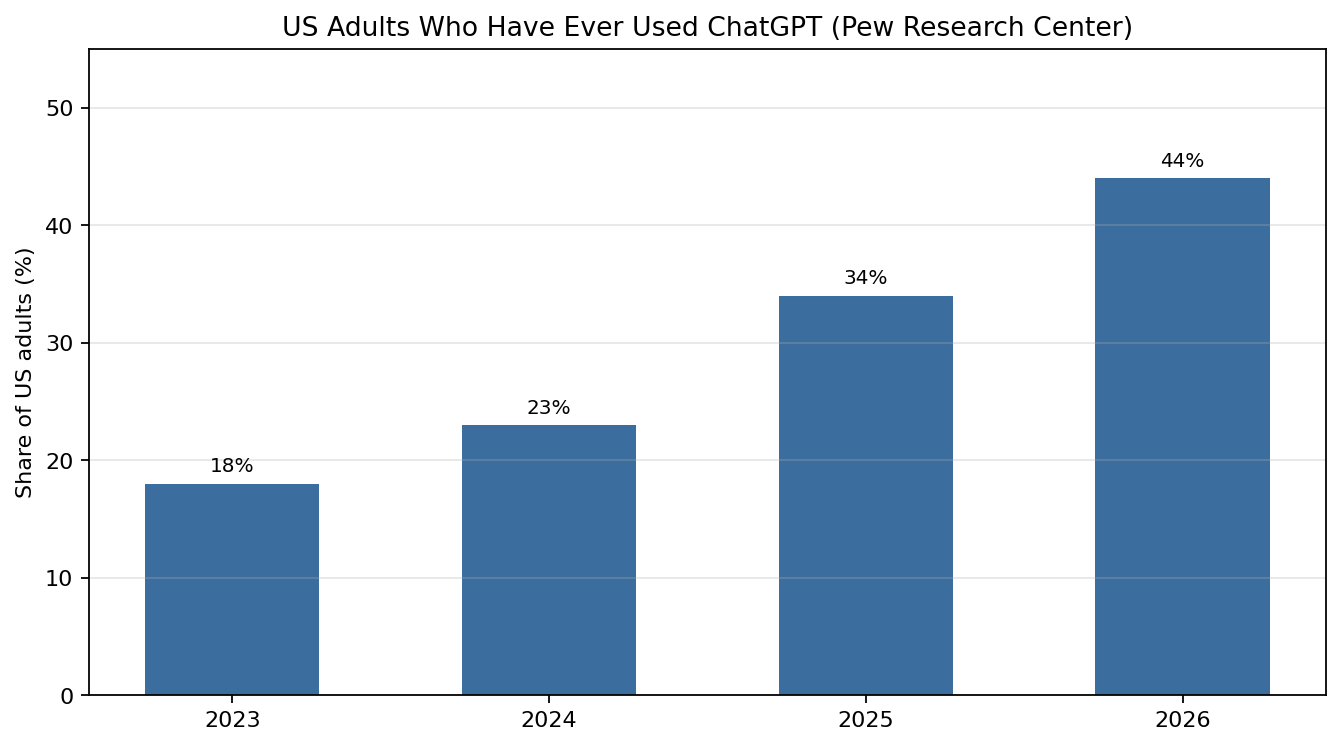
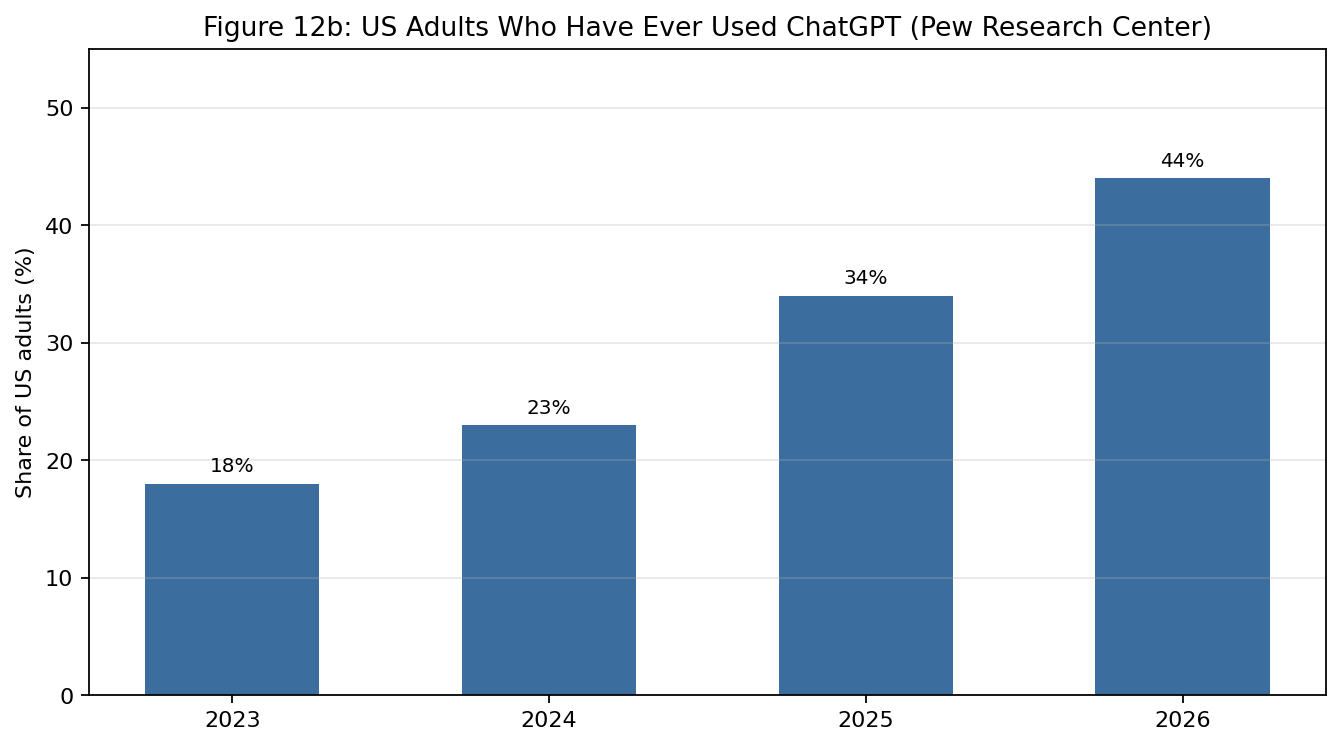
Fix AI era report: sequential figure numbering and widen narrow charts (Figures 6a, 9b, 14)

Changed region(s): [[0.1529, 0.0, 0.9172, 0.0616]]

diff --git a/public/reports/ai-era-daily-life/index.html b/public/reports/ai-era-daily-life/index.html
@@ -409,33 +409,33 @@
 <section id="jobs">
   <h2>7. Job Security</h2>
 
-  <p>Job security is the dimension where the economics literature is deepest, and where perceived and measured risk diverge most sharply. The perceived risk is real and rising. In September 2023, 22 percent of US workers told Gallup they worried technology would make their job obsolete, up from 15 percent in 2021. Microsoft's 2023 Work Trend Index found 49 percent of global knowledge workers worried AI would replace their job, and 70 percent said they would delegate as much work as possible to AI. By February 2025, Pew found 52 percent of US workers worried about AI use in the workplace, with 32 percent saying AI would lead to fewer job opportunities in their field (Figure 9). These are substantial numbers, and they moved up almost exactly with the ChatGPT timeline.</p>
+  <p>Job security is the dimension where the economics literature is deepest, and where perceived and measured risk diverge most sharply. The perceived risk is real and rising. In September 2023, 22 percent of US workers told Gallup they worried technology would make their job obsolete, up from 15 percent in 2021. Microsoft's 2023 Work Trend Index found 49 percent of global knowledge workers worried AI would replace their job, and 70 percent said they would delegate as much work as possible to AI. By February 2025, Pew found 52 percent of US workers worried about AI use in the workplace, with 32 percent saying AI would lead to fewer job opportunities in their field (Figure 6). These are substantial numbers, and they moved up almost exactly with the ChatGPT timeline.</p>
 
   <div class="two-col">
     <div class="chart-container">
-      <h4>Figure 9a: Workers Who Worry About AI and Their Jobs</h4>
+      <h4>Figure 6a: Workers Who Worry About AI and Their Jobs</h4>
       <p class="chart-note">Shares of workers reporting job-related worry about technology or AI, by survey. Questions differ across surveys; each bar states its source and wording. Sources: Gallup Work and Education poll (2021, 2023); Microsoft Work Trend Index (2023); Pew Research Center (February 2025).</p>
       <div class="chart-box short" id="chart-job-worries"></div>
     </div>
     <div class="chart-container">
-      <h4>Figure 9b: How US Workers Feel About AI in the Workplace</h4>
+      <h4>Figure 6b: How US Workers Feel About AI in the Workplace</h4>
       <p class="chart-note">US workers reporting each feeling about AI use in the workplace, February 2025. Source: Pew Research Center. Multiple feelings could be selected.</p>
       <div class="chart-box short" id="chart-pew-sentiment"></div>
     </div>
   </div>
 
-  <p>The measured risk is far smaller, at least so far. The ILO's 2023 analysis of generative AI and jobs found that only 5.5 percent of total employment in high-income countries sits in occupations potentially exposed to the automating effects of the technology, and 0.4 percent in low-income countries. The larger effect is augmentation: 13.4 percent of employment in high-income countries and 10.4 percent in low-income countries could be enhanced rather than replaced, which is why the ILO concluded that the technology is more likely to change the quality of jobs than to destroy them. The IMF's 2024 analysis uses a wider definition of exposure and finds that almost 40 percent of global employment is exposed to AI, about 60 percent in advanced economies, 40 percent in emerging markets, and 26 percent in low-income countries. The OECD's 2024 regional analysis estimates that about 26 percent of OECD workers are currently exposed to generative AI, with a potential for up to 70 percent as the technology spreads, and 39 percent of the potentially exposed workers considered highly exposed (Figure 8).</p>
+  <p>The measured risk is far smaller, at least so far. The ILO's 2023 analysis of generative AI and jobs found that only 5.5 percent of total employment in high-income countries sits in occupations potentially exposed to the automating effects of the technology, and 0.4 percent in low-income countries. The larger effect is augmentation: 13.4 percent of employment in high-income countries and 10.4 percent in low-income countries could be enhanced rather than replaced, which is why the ILO concluded that the technology is more likely to change the quality of jobs than to destroy them. The IMF's 2024 analysis uses a wider definition of exposure and finds that almost 40 percent of global employment is exposed to AI, about 60 percent in advanced economies, 40 percent in emerging markets, and 26 percent in low-income countries. The OECD's 2024 regional analysis estimates that about 26 percent of OECD workers are currently exposed to generative AI, with a potential for up to 70 percent as the technology spreads, and 39 percent of the potentially exposed workers considered highly exposed (Figure 7).</p>
 
   <div class="chart-container">
-    <h4>Figure 8: Estimates of AI Exposure Across Studies and Definitions</h4>
+    <h4>Figure 7: Estimates of AI Exposure Across Studies and Definitions</h4>
     <p class="chart-note">Shares of employment or tasks potentially exposed to AI, by study, scope, and definition. The measures are not directly comparable; exposure means task overlap, not job loss. Sources: ILO (2023); IMF (2024); OECD (2024); Frey and Osborne (2017) shown for historical context.</p>
     <div class="chart-box tall" id="chart-exposure"></div>
   </div>
 
-  <p>Projections of future churn are larger but still net positive in the latest round. The World Economic Forum's 2023 Future of Jobs Report expected 23 percent of jobs to change between 2023 and 2027, with 69 million jobs created and 83 million eliminated, a net reduction of 14 million. Its 2025 report, covering 2025 to 2030, projects 170 million jobs created and 92 million displaced, a net gain of 78 million, with 39 percent of workers' core skills expected to change (Figure 13). The swing from net negative to net positive between the two reports is itself a reminder that these are employer expectations, not outcomes, and that they respond to the economic cycle as much as to technology.</p>
+  <p>Projections of future churn are larger but still net positive in the latest round. The World Economic Forum's 2023 Future of Jobs Report expected 23 percent of jobs to change between 2023 and 2027, with 69 million jobs created and 83 million eliminated, a net reduction of 14 million. Its 2025 report, covering 2025 to 2030, projects 170 million jobs created and 92 million displaced, a net gain of 78 million, with 39 percent of workers' core skills expected to change (Figure 8). The swing from net negative to net positive between the two reports is itself a reminder that these are employer expectations, not outcomes, and that they respond to the economic cycle as much as to technology.</p>
 
   <div class="chart-container">
-    <h4>Figure 13: Projected Job Creation and Displacement (WEF Future of Jobs)</h4>
+    <h4>Figure 8: Projected Job Creation and Displacement (WEF Future of Jobs)</h4>
     <p class="chart-note">Projections from the World Economic Forum Future of Jobs Reports 2023 and 2025, based on employer surveys. Values are expectations over the stated horizons, not realised outcomes.</p>
     <div class="chart-box" id="chart-job-transformation"></div>
   </div>
@@ -446,16 +446,16 @@
 <section id="distribution">
   <h2>8. Distribution of Effects</h2>
 
-  <p>Who gains and who loses depends on which side of three gaps a person sits: the usage gap, the exposure gap, and the skill gap. The usage gap is the largest and the best measured. Pew's 2025 survey found 58 percent of US adults aged 18 to 29 had used ChatGPT, versus 41 percent of those aged 30 to 49, 25 percent of those aged 50 to 64, and 10 percent of those 65 and over (Figure 10a). An earlier Pew survey found the same pattern: 62 percent of Americans thought AI would have a major impact on workers generally, but only 28 percent thought it would have a major impact on them personally, a gap between generalised anxiety and personal expectation that is itself a distributional fact: those who expect to be affected are not evenly spread across the population.</p>
+  <p>Who gains and who loses depends on which side of three gaps a person sits: the usage gap, the exposure gap, and the skill gap. The usage gap is the largest and the best measured. Pew's 2025 survey found 58 percent of US adults aged 18 to 29 had used ChatGPT, versus 41 percent of those aged 30 to 49, 25 percent of those aged 50 to 64, and 10 percent of those 65 and over (Figure 9a). An earlier Pew survey found the same pattern: 62 percent of Americans thought AI would have a major impact on workers generally, but only 28 percent thought it would have a major impact on them personally, a gap between generalised anxiety and personal expectation that is itself a distributional fact: those who expect to be affected are not evenly spread across the population.</p>
 
   <div class="two-col">
     <div class="chart-container">
-      <h4>Figure 10a: US Adults Who Have Used ChatGPT, by Age (2025)</h4>
+      <h4>Figure 9a: US Adults Who Have Used ChatGPT, by Age (2025)</h4>
       <p class="chart-note">Share of each age group who say they have ever used ChatGPT. Source: Pew Research Center, June 2025.</p>
       <div class="chart-box short" id="chart-age-usage"></div>
     </div>
     <div class="chart-container">
-      <h4>Figure 10b: AI Exposure by Group (ILO, IMF, OECD)</h4>
+      <h4>Figure 9b: AI Exposure by Group (ILO, IMF, OECD)</h4>
       <p class="chart-note">Exposure measures by gender (ILO 2023, share of employment potentially automatable; ILO 2026, share of occupations potentially exposed), country income group (IMF 2024, share of employment exposed), and urban versus rural OECD regions (OECD 2024, workers currently exposed).</p>
       <div class="chart-box short" id="chart-exposure-groups"></div>
     </div>
@@ -472,17 +472,17 @@
   <p>The most consequential claim about generative AI is that it lets non-experts perform work once reserved for specialists: a person who cannot code can generate working scripts, a person who cannot draft legal language can produce a first-pass contract clause, and a student can receive instant explanations. The claim deserves to be tested, not asserted, because the evidence cuts both ways. The experimental literature on productivity is large enough to support real conclusions about where empowerment happens, and the learning literature is clear enough to show where it fails.</p>
 
   <div class="chart-container">
-    <h4>Figure 11: Experimental Evidence on Generative AI and Productivity</h4>
+    <h4>Figure 10: Experimental Evidence on Generative AI and Productivity</h4>
     <p class="chart-note">Percentage changes in productivity or quality measures from randomised experiments. Green bars: quality outcomes; navy bars: speed or output; red: negative effect. Sources: Noy and Zhang (2023); Peng et al. (2023); Brynjolfsson, Li, and Raymond (2025); Cui et al. (2026); Dell'Acqua et al. (2023); Otis et al. (2024).</p>
     <div class="chart-box tall" id="chart-productivity"></div>
   </div>
 
   <p>The consistent finding across tasks is that generative AI raises measured output, often dramatically. Noy and Zhang's randomised experiment with 453 college-educated professionals found ChatGPT reduced the time to complete writing tasks by 40 percent while improving judged quality by 18 percent. Peng et al. found developers with GitHub Copilot completed a coding task 55.8 percent faster. In a Fortune 500 customer support setting, Brynjolfsson, Li, and Raymond found the AI assistant raised issues resolved per hour by 14 percent on average, with a 34 percent gain for novice and low-skilled workers and near zero for experienced agents. Cui et al., running three field experiments across Microsoft, Accenture, and a Fortune 100 firm, found a 26 percent increase in completed software tasks. Dell'Acqua et al.'s experiment with management consultants found 12.2 percent more tasks completed, 25.1 percent faster work, and more than 40 percent higher output quality, with below-average consultants improving 43 percent versus 17 percent for above-average performers. This is the strongest version of the empowerment story: on well-defined tasks, the least skilled gain the most, which is what a general-purpose technology that compresses the cost of expertise should look like.</p>
 
-  <p>The counter-evidence comes from two places. The first is task complexity. Otis et al. ran a five-month field experiment in which 640 Kenyan small business owners received a GPT-4 business mentor. High-performing entrepreneurs increased profits by about 15 percent, but low performers did nearly 10 percent worse, because they lacked the complementary skills to act on the AI's advice. Empowerment is conditional on the ability to evaluate and execute, and where that ability is absent, AI can widen the gap rather than close it. The second is learning. Bastani et al. studied Turkish high school students in mathematics: those with unstructured ChatGPT access solved 48 percent more practice problems, but scored 17 percent worse on an exam taken without the tool, while students using a structured tutor prompt improved 127 percent on practice problems (Figure 12). The crutch effect is real: doing the task with AI does not equal learning to do the task, and unsupervised use can substitute for skill formation.</p>
+  <p>The counter-evidence comes from two places. The first is task complexity. Otis et al. ran a five-month field experiment in which 640 Kenyan small business owners received a GPT-4 business mentor. High-performing entrepreneurs increased profits by about 15 percent, but low performers did nearly 10 percent worse, because they lacked the complementary skills to act on the AI's advice. Empowerment is conditional on the ability to evaluate and execute, and where that ability is absent, AI can widen the gap rather than close it. The second is learning. Bastani et al. studied Turkish high school students in mathematics: those with unstructured ChatGPT access solved 48 percent more practice problems, but scored 17 percent worse on an exam taken without the tool, while students using a structured tutor prompt improved 127 percent on practice problems (Figure 11). The crutch effect is real: doing the task with AI does not equal learning to do the task, and unsupervised use can substitute for skill formation.</p>
 
   <div class="chart-container">
-    <h4>Figure 12: Generative AI Can Raise Practice Performance but Reduce Learning (Bastani et al. 2024)</h4>
+    <h4>Figure 11: Generative AI Can Raise Practice Performance but Reduce Learning (Bastani et al. 2024)</h4>
     <p class="chart-note">High school mathematics experiment. Bars show performance change relative to a no-AI control on practice problems with AI access and on an exam without access. Source: Bastani et al. (2024), SSRN 4895486, published in PNAS (2025).</p>
     <div class="chart-box" id="chart-learning"></div>
   </div>
@@ -495,23 +495,23 @@
 
   <p>Reviewed together, the seven dimensions support four solid conclusions and three honest non-conclusions.</p>
 
-  <p><strong>First, generative AI has diffused faster than any comparable consumer technology, and its adoption is real and measurable.</strong> ChatGPT went from launch to 100 million weekly users in a year and to about 800 million by October 2025. McKinsey surveys show the share of organisations using AI in at least one function rising from 55 percent in 2023 to 72 percent in 2024 and 88 percent in 2025, with regular generative AI use up from 33 percent in 2023 to 65 percent in 2024 and 79 percent in 2025 (Figure 7). Pew's 44 percent ChatGPT usage among US adults in 2026 makes generative AI a mainstream consumer utility. This is not hype; it is the factual base on which the wellbeing questions sit.</p>
+  <p><strong>First, generative AI has diffused faster than any comparable consumer technology, and its adoption is real and measurable.</strong> ChatGPT went from launch to 100 million weekly users in a year and to about 800 million by October 2025. McKinsey surveys show the share of organisations using AI in at least one function rising from 55 percent in 2023 to 72 percent in 2024 and 88 percent in 2025, with regular generative AI use up from 33 percent in 2023 to 65 percent in 2024 and 79 percent in 2025 (Figure 13). Pew's 44 percent ChatGPT usage among US adults in 2026 makes generative AI a mainstream consumer utility. This is not hype; it is the factual base on which the wellbeing questions sit.</p>
 
   <div class="two-col">
     <div class="chart-container">
-      <h4>Figure 6a: ChatGPT Weekly Active Users (millions)</h4>
+      <h4>Figure 12a: ChatGPT Weekly Active Users (millions)</h4>
       <p class="chart-note">Weekly active users as announced by OpenAI: 100 million (November 2023), 200 million (August 2024), 400 million (February 2025), 500 million (March 2025), 700 million (August 2025), 800 million (October 2025).</p>
       <div class="chart-box short" id="chart-chatgpt-users"></div>
     </div>
     <div class="chart-container">
-      <h4>Figure 6b: US Adults Who Have Ever Used ChatGPT (2023-2026)</h4>
+      <h4>Figure 12b: US Adults Who Have Ever Used ChatGPT (2023-2026)</h4>
       <p class="chart-note">Share of US adults who say they have ever used ChatGPT. Source: Pew Research Center (June 2025; June 2026).</p>
       <div class="chart-box short" id="chart-pew-usage"></div>
     </div>
   </div>
 
   <div class="chart-container">
-    <h4>Figure 7: Organisational AI Adoption (McKinsey State of AI)</h4>
+    <h4>Figure 13: Organisational AI Adoption (McKinsey State of AI)</h4>
     <p class="chart-note">Share of surveyed organisations using AI in at least one business function and the share regularly using generative AI, 2023 to 2025. Sources: McKinsey State of AI surveys (2023; early 2024; 2025). The Stanford AI Index Report (2025) re-states a later 2024 survey reading of 78 percent.</p>
     <div class="chart-box" id="chart-org-adoption"></div>
   </div>
@@ -532,7 +532,7 @@
 
   <div class="chart-container">
     <h4>Figure 14: Research Opportunities by Data Availability and Theoretical Significance</h4>
-    <p class="chart-note">Author assessment on 0 to 10 scales, intended as a research agenda, not a measurement. Positions reflect the state of data access and the theoretical payoff of each topic.</p>
+    <p class="chart-note">Author assessment on 0 to 10 scales, intended as a research agenda, not a measurement. Positions reflect the state of data access and the theoretical payoff of each topic. The axes are zoomed to the region the eight topics occupy.</p>
     <div class="chart-box tall" id="chart-research"></div>
   </div>
 
@@ -763,7 +763,7 @@ window._echartsReady = true;
 })();
 
 (function() {
-  // Figure 6a: ChatGPT weekly users
+  // Figure 12a: ChatGPT weekly users
   var c6a = echarts.init(document.getElementById('chart-chatgpt-users'));
   c6a.setOption({
     tooltip: { trigger: 'axis', formatter: function(p) { return p[0].axisValue + '<br/>' + p[0].value + ' million'; } },
@@ -781,7 +781,7 @@ window._echartsReady = true;
 })();
 
 (function() {
-  // Figure 6b: Pew ChatGPT usage
+  // Figure 12b: Pew ChatGPT usage
   var c6b = echarts.init(document.getElementById('chart-pew-usage'));
   c6b.setOption({
     tooltip: { trigger: 'axis', formatter: '{b}: {c}%' },
@@ -797,7 +797,7 @@ window._echartsReady = true;
 })();
 
 (function() {
-  // Figure 7: Organisational adoption
+  // Figure 13: Organisational adoption
   var c7 = echarts.init(document.getElementById('chart-org-adoption'));
   c7.setOption({
     tooltip: { trigger: 'axis', formatter: '{b}: {c}%' },
@@ -814,7 +814,7 @@ window._echartsReady = true;
 })();
 
 (function() {
-  // Figure 8: Exposure estimates (horizontal bars)
+  // Figure 7: Exposure estimates (horizontal bars)
   var rows = [
     'ILO | Low-income: employment highly exposed', 'ILO | Low-income: employment potentially augmented',
     'ILO | World: male employment potentially automatable', 'ILO | World: clerical tasks highly exposed (approx)',
@@ -847,14 +847,14 @@ window._echartsReady = true;
 })();
 
 (function() {
-  // Figure 9a: Job worries
+  // Figure 6a: Job worries
   var c9a = echarts.init(document.getElementById('chart-job-worries'));
   c9a.setOption({
     tooltip: { trigger: 'axis', formatter: '{b}: {c}%' },
-    grid: { left: 170, containLabel: true, right: 40, top: 40, bottom: 30 },
+    grid: { left: 135, containLabel: true, right: 30, top: 40, bottom: 30 },
     xAxis: { type: 'value', max: 65, axisLabel: { formatter: '{value}%', fontSize: 10 } },
     yAxis: { type: 'category', axisLabel: { fontSize: 9.5 },
-      data: ['Pew 2025: worried about AI at work','Microsoft 2023: AI will replace my job','Gallup 2023: tech makes job obsolete','Gallup 2021: tech makes job obsolete'] },
+      data: ['Pew 2025\n(worried about AI)','Microsoft 2023\n(AI will replace my job)','Gallup 2023\n(tech makes job obsolete)','Gallup 2021\n(tech makes job obsolete)'] },
     series: [{
       type: 'bar', data: [52,49,22,15], barMaxWidth: 26,
       itemStyle: { color: function(p) { return ['#c0392b','#f39c12','#3b6e9e','#7f8c8d'][p.dataIndex]; } },
@@ -865,7 +865,7 @@ window._echartsReady = true;
 })();
 
 (function() {
-  // Figure 9b: Pew sentiment
+  // Figure 6b: Pew sentiment
   var c9b = echarts.init(document.getElementById('chart-pew-sentiment'));
   c9b.setOption({
     tooltip: { trigger: 'axis', formatter: '{b}: {c}%' },
@@ -882,7 +882,7 @@ window._echartsReady = true;
 })();
 
 (function() {
-  // Figure 10a: ChatGPT usage by age
+  // Figure 9a: ChatGPT usage by age
   var c10a = echarts.init(document.getElementById('chart-age-usage'));
   c10a.setOption({
     tooltip: { trigger: 'axis', formatter: '{b}: {c}%' },
@@ -898,13 +898,13 @@ window._echartsReady = true;
 })();
 
 (function() {
-  // Figure 10b: Exposure by group
-  var rows = ['Men worldwide (ILO 2023)','Women worldwide (ILO 2023)','Male-dominated occupations (ILO 2026)','Female-dominated occupations (ILO 2026)','Rural OECD regions (OECD 2024)','Low-income countries (IMF 2024)','Emerging markets (IMF 2024)','Urban OECD regions (OECD 2024)','World (IMF 2024)','Advanced economies (IMF 2024)'];
+  // Figure 9b: Exposure by group
+  var rows = ['Men worldwide\n(ILO 2023)','Women worldwide\n(ILO 2023)','Male-dominated\noccupations (ILO 2026)','Female-dominated\noccupations (ILO 2026)','Rural OECD\nregions (OECD 2024)','Low-income\ncountries (IMF 2024)','Emerging\nmarkets (IMF 2024)','Urban OECD\nregions (OECD 2024)','World (IMF 2024)','Advanced\neconomies (IMF 2024)'];
   var vals = [1.4,3.7,16,29,21,26,40,32,40,60];
   var c10b = echarts.init(document.getElementById('chart-exposure-groups'));
   c10b.setOption({
     tooltip: { trigger: 'axis', formatter: '{b}: {c}%' },
-    grid: { left: 240, containLabel: true, right: 40, top: 40, bottom: 30 },
+    grid: { left: 130, containLabel: true, right: 30, top: 40, bottom: 30 },
     xAxis: { type: 'value', max: 70, axisLabel: { formatter: '{value}%', fontSize: 10 } },
     yAxis: { type: 'category', data: rows, axisLabel: { fontSize: 9.5 } },
     series: [{
@@ -926,7 +926,7 @@ window._echartsReady = true;
 })();
 
 (function() {
-  // Figure 11: Productivity evidence
+  // Figure 10: Productivity evidence
   var rows = [
     'Otis et al. (low performers): profits', 'Brynjolfsson et al. (all agents): issues resolved/hr',
     'Dell\'Acqua et al. (all): tasks completed', 'Dell\'Acqua et al. (above avg): quality',
@@ -955,7 +955,7 @@ window._echartsReady = true;
 })();
 
 (function() {
-  // Figure 12: Learning evidence
+  // Figure 11: Learning evidence
   var c12 = echarts.init(document.getElementById('chart-learning'));
   c12.setOption({
     tooltip: { trigger: 'axis', formatter: '{b}: {c}%' },
@@ -972,7 +972,7 @@ window._echartsReady = true;
 })();
 
 (function() {
-  // Figure 13: Job transformation
+  // Figure 8: Job transformation
   var c13 = echarts.init(document.getElementById('chart-job-transformation'));
   c13.setOption({
     tooltip: { trigger: 'axis', formatter: '{b}<br/>{a}: {c} million' },
@@ -995,10 +995,10 @@ window._echartsReady = true;
   c14.setOption({
     tooltip: { trigger: 'item', formatter: '{b}' },
     grid: { left: 60, containLabel: true, right: 40, top: 40, bottom: 40 },
-    xAxis: { type: 'value', name: 'Data availability (0-10)', min: 0, max: 10, axisLabel: { fontSize: 9 } },
-    yAxis: { type: 'value', name: 'Theoretical significance (0-10)', min: 0, max: 10, axisLabel: { fontSize: 9 } },
+    xAxis: { type: 'value', name: 'Data availability (0-10)', min: 3, max: 9, axisLabel: { fontSize: 9 } },
+    yAxis: { type: 'value', name: 'Theoretical significance (0-10)', min: 6, max: 11, axisLabel: { fontSize: 9 } },
     series: [{
-      type: 'scatter', symbolSize: function(d) { return 28; },
+      type: 'scatter', symbolSize: function(d) { return 32; },
       data: [
         [6,9,'Causal effects of AI on wellbeing'],[5,8,'Algorithmic management and freedom'],
         [7,8,'AI and job quality'],[6,10,'Deskilling versus empowerment'],

diff --git a/public/reports/ai-era-daily-life/scripts/replicate.py b/public/reports/ai-era-daily-life/scripts/replicate.py
@@ -322,7 +322,7 @@ for _, row in weekly.iterrows():
     ax.annotate(str(int(row["value"])) + "M", (row["date"], row["value"]),
                 textcoords="offset points", xytext=(0, 8), fontsize=9,
                 ha="center", color=C_NAVY)
-ax.set_title("ChatGPT Weekly Active Users (millions)")
+ax.set_title("Figure 12a: ChatGPT Weekly Active Users (millions)")
 ax.set_ylabel("Weekly active users (millions)")
 ax.xaxis.set_major_formatter(mdates.DateFormatter("%b %Y"))
 ax.grid(alpha=0.3)
@@ -338,7 +338,7 @@ bars = ax.bar(pew_all["year"].astype(str), pew_all["share_pct"], color=C_BLUE, w
 for b, v in zip(bars, pew_all["share_pct"]):
     ax.text(b.get_x() + b.get_width() / 2, v + 1, str(int(v)) + "%",
             ha="center", fontsize=9)
-ax.set_title("US Adults Who Have Ever Used ChatGPT (Pew Research Center)")
+ax.set_title("Figure 12b: US Adults Who Have Ever Used ChatGPT (Pew Research Center)")
 ax.set_ylabel("Share of US adults (%)")
 ax.set_ylim(0, 55)
 ax.grid(axis="y", alpha=0.3)
@@ -364,7 +364,7 @@ for bars, vals in [(b1, df_org["ai_use_pct"]), (b2, df_org["genai_use_pct"])]:
                 ha="center", fontsize=9)
 ax.set_xticks(x)
 ax.set_xticklabels(df_org["year"])
-ax.set_title("Figure 7: Organisational AI Adoption (McKinsey State of AI)")
+ax.set_title("Figure 13: Organisational AI Adoption (McKinsey State of AI)")
 ax.set_ylabel("Share of surveyed organisations (%)")
 ax.set_ylim(0, 100)
 ax.legend(fontsize=9)
@@ -390,7 +390,7 @@ bars = ax.barh(df_exp["label"], df_exp["value_pct"], color=cols)
 for b, v in zip(bars, df_exp["value_pct"]):
     ax.text(v + 0.8, b.get_y() + b.get_height() / 2, str(v) + "%",
             va="center", fontsize=8)
-ax.set_title("Figure 8: Estimates of AI Exposure Across Studies and Definitions")
+ax.set_title("Figure 7: Estimates of AI Exposure Across Studies and Definitions")
 ax.set_xlabel("Share of employment or tasks (%)")
 ax.set_xlim(0, 80)
 ax.grid(axis="x", alpha=0.3)
@@ -420,7 +420,7 @@ bars = ax.bar(labels, vals, color=[C_GREY, C_BLUE, C_AMBER, C_RED])
 for b, v in zip(bars, vals):
     ax.text(b.get_x() + b.get_width() / 2, v + 1, str(int(v)) + "%",
             ha="center", fontsize=9)
-ax.set_title("Workers Who Worry About AI and Their Jobs")
+ax.set_title("Figure 6a: Workers Who Worry About AI and Their Jobs")
 ax.set_ylabel("Share of workers (%)")
 ax.set_ylim(0, 65)
 ax.grid(axis="y", alpha=0.3)
@@ -442,7 +442,7 @@ bars = ax.bar(labels2, sentiments["value_pct"], color=colors2)
 for b, v in zip(bars, sentiments["value_pct"]):
     ax.text(b.get_x() + b.get_width() / 2, v + 1, str(int(v)) + "%",
             ha="center", fontsize=9)
-ax.set_title("How US Workers Feel About AI in the Workplace (Pew, Feb 2025)")
+ax.set_title("Figure 6b: How US Workers Feel About AI in the Workplace (Pew, Feb 2025)")
 ax.set_ylabel("Share of US workers (%)")
 ax.set_ylim(0, 65)
 ax.grid(axis="y", alpha=0.3)
@@ -465,7 +465,7 @@ bars = ax.bar(age_usage["group"], age_usage["value_pct"], color=C_NAVY)
 for b, v in zip(bars, age_usage["value_pct"]):
     ax.text(b.get_x() + b.get_width() / 2, v + 1, str(int(v)) + "%",
             ha="center", fontsize=9)
-ax.set_title("US Adults Who Have Used ChatGPT by Age (Pew, 2025)")
+ax.set_title("Figure 9a: US Adults Who Have Used ChatGPT by Age (Pew, 2025)")
 ax.set_ylabel("Share of age group (%)")
 ax.set_ylim(0, 70)
 ax.grid(axis="y", alpha=0.3)
@@ -473,7 +473,7 @@ fig.tight_layout()
 save_fig(fig, "fig10a_age_usage.png")
 
 exposure_groups = df_dist[df_dist["measure"].str.contains("exposed|automatable")]
-fig, ax = plt.subplots(figsize=(8.5, 4.8))
+fig, ax = plt.subplots(figsize=(9.5, 6))
 exp2 = exposure_groups.sort_values("value_pct")
 colors3 = []
 for _, r in exp2.iterrows():
@@ -491,7 +491,7 @@ bars = ax.barh(exp2["group"], exp2["value_pct"], color=colors3)
 for b, v in zip(bars, exp2["value_pct"]):
     ax.text(v + 0.5, b.get_y() + b.get_height() / 2, str(v) + "%",
             va="center", fontsize=8)
-ax.set_title("AI Exposure by Group (ILO, IMF, OECD)")
+ax.set_title("Figure 9b: AI Exposure by Group (ILO, IMF, OECD)")
 ax.set_xlabel("Share of employment or occupations (%)")
 ax.set_xlim(0, 70)
 ax.grid(axis="x", alpha=0.3)
@@ -520,7 +520,7 @@ for b, v in zip(bars, df_prod["effect_pct"]):
             ("+" if v > 0 else "") + str(v) + "%",
             va="center", ha="left" if v >= 0 else "right", fontsize=8)
 ax.axvline(0, color="#44403c", linewidth=1)
-ax.set_title("Figure 11: Experimental Evidence on Generative AI and Productivity")
+ax.set_title("Figure 10: Experimental Evidence on Generative AI and Productivity")
 ax.set_xlabel("Effect size (%)")
 ax.grid(axis="x", alpha=0.3)
 fig.tight_layout()
@@ -553,7 +553,7 @@ for bars, vals in [(b1, practice), (b2, exam)]:
 ax.set_xticks(x)
 ax.set_xticklabels([l.replace(" (", "\n(") for l in labels3], fontsize=8.5)
 ax.axhline(0, color="#44403c", linewidth=0.8)
-ax.set_title("Figure 12: Generative AI Can Raise Practice Performance but Reduce Learning (Bastani et al.)")
+ax.set_title("Figure 11: Generative AI Can Raise Practice Performance but Reduce Learning (Bastani et al.)")
 ax.set_ylabel("Change relative to control (%)")
 ax.legend(fontsize=9)
 ax.grid(axis="y", alpha=0.3)
@@ -584,7 +584,7 @@ for bars, vals in [(b1, df_jobs["jobs_created_millions"]),
 ax.set_xticks(x)
 ax.set_xticklabels(["WEF 2023\n(2023-2027)", "WEF 2025\n(2025-2030)"])
 ax.axhline(0, color="#44403c", linewidth=0.8)
-ax.set_title("Figure 13: Projected Job Creation and Displacement (WEF Future of Jobs)")
+ax.set_title("Figure 8: Projected Job Creation and Displacement (WEF Future of Jobs)")
 ax.set_ylabel("Millions of jobs")
 ax.legend(fontsize=9)
 ax.grid(axis="y", alpha=0.3)
@@ -606,8 +606,8 @@ for i, (_, row) in enumerate(df_research.iterrows()):
     dy = 9 if i % 2 == 0 else -18
     ax.annotate(row["topic"], (row["data_availability"], row["theoretical_significance"]),
                 textcoords="offset points", xytext=(6, dy), fontsize=8.5)
-ax.set_xlim(0, 10)
-ax.set_ylim(0, 10.5)
+ax.set_xlim(3, 9)
+ax.set_ylim(6, 11)
 ax.set_title("Figure 14: Research Opportunities by Data Availability and Theoretical Significance")
 ax.set_xlabel("Data availability (author assessment, 0-10)")
 ax.set_ylabel("Theoretical significance (author assessment, 0-10)")
